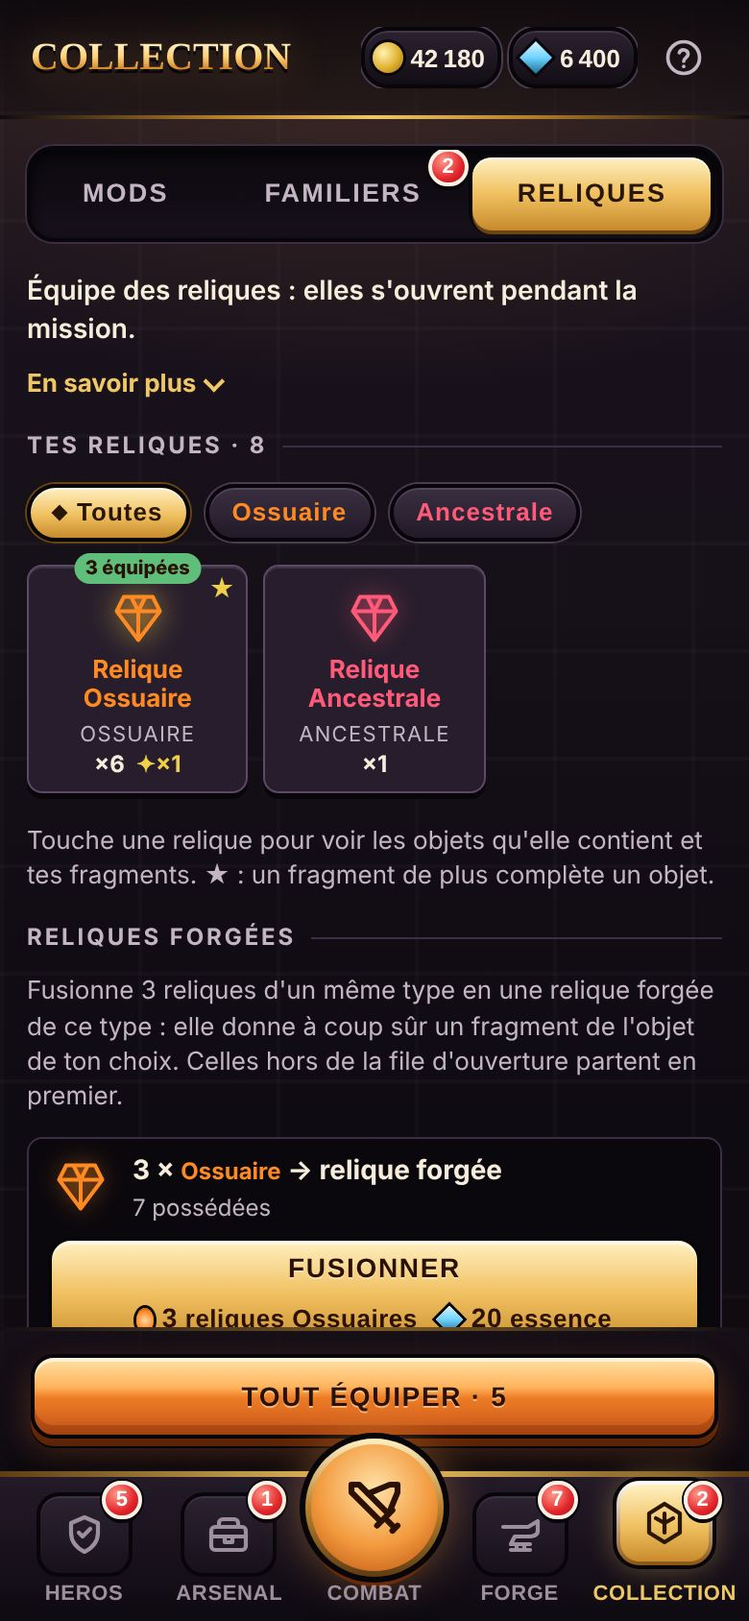
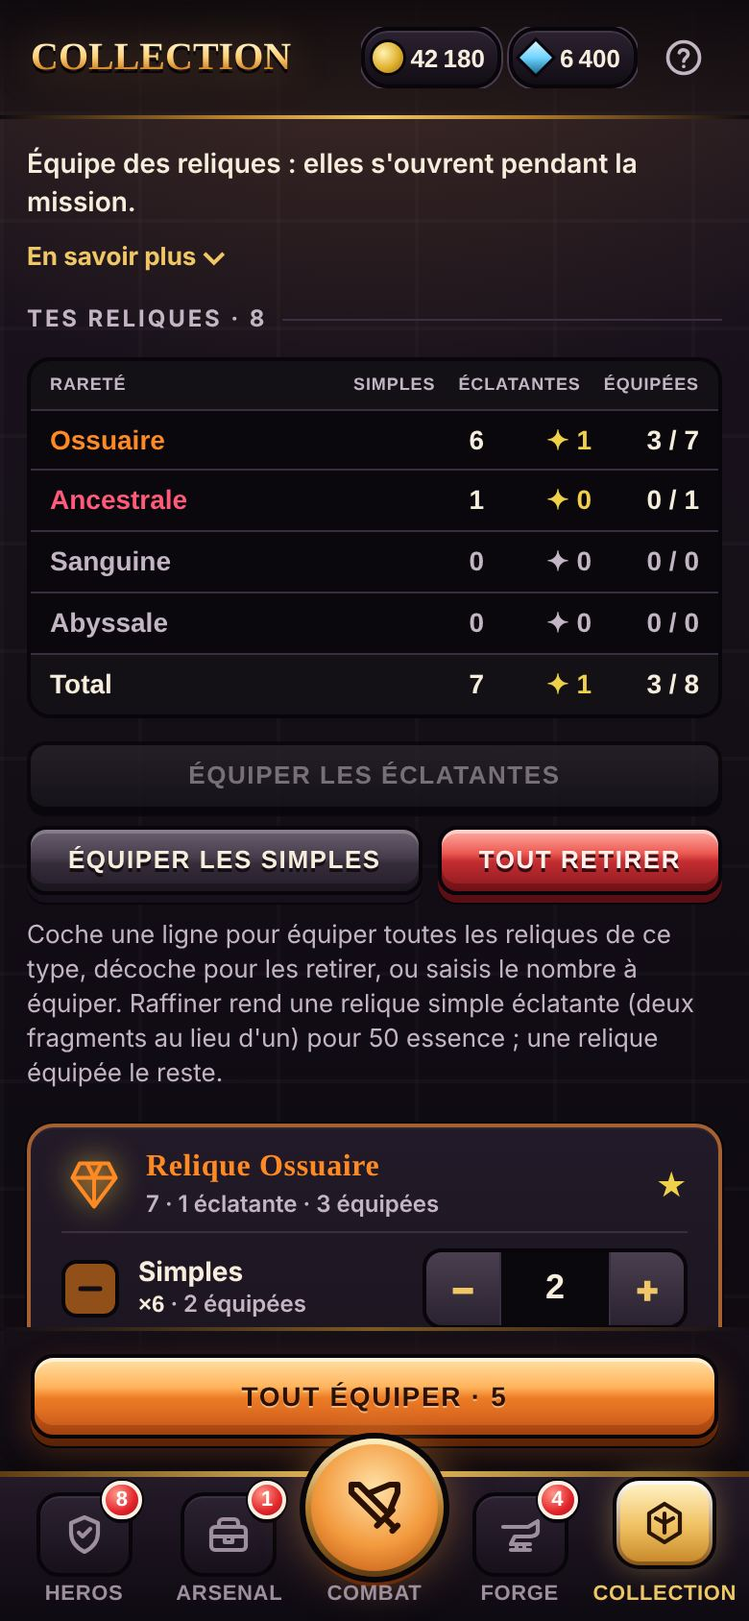
v140: refonte relique interface

diff --git a/js/collection.js b/js/collection.js
@@ -1,5 +1,5 @@
-// Crypte des Cendres — collection.js : Collection › Reliques (file d'ouverture, reliques forgées, raffinage) et ses actions. Découpé de camp.js en v135.
-let relSel=null,relTier='all';
+// Crypte des Cendres — collection.js : Collection › Reliques (tableau par rareté, cartes par type, file d’ouverture, reliques forgées, raffinage en nombre) et ses actions. Découpé de camp.js en v135, gestion refaite en v140.
+let relTier='all'; // filtre gardé pour le bouton du bas (toutes les reliques depuis la v140)
 // Filtre : 'all', un type (0–3) ou 'f' (forgées)
 const relMatch=(id,f=relTier)=>{const R=RELICS[id];return f==='all'||(f==='f'?!!R.fz:String(R.t)===f&&!R.fz)};
 const relToEquip=f=>Object.keys(RELICS).filter(id=>meta.relics[id]&&relMatch(id,f)).reduce((n,id)=>n+[true,false].reduce((m,rad)=>m+Math.max(0,(meta.relics[id][rad?1:0]|0)-relicQN(id,rad)),0),0);
@@ -22,55 +22,96 @@ function fusionSection(){
 // File d'ouverture regroupée par type (relique + état), dans l'ordre de la première de chaque groupe.
 function relGroups(){const G2=[],ix={};for(const q of meta.relicQ){const k=q.id+'|'+(q.rad?1:0);if(ix[k]==null){ix[k]=G2.length;G2.push({id:q.id,rad:!!q.rad,n:0})}G2[ix[k]].n++}return G2}
 const RELIC_SVG='<svg viewBox="0 0 24 24"><path d="M6 3h12l3 6-9 12L3 9z"/><path d="M3 9h18M9 3l3 6 3-6M12 9v12"/></svg>';
+/* v140 : gestion des reliques. Un tableau par rareté (simples, éclatantes, équipées), puis une carte par type : pour les simples et pour les
+   éclatantes, une case à cocher (toutes ou aucune), le nombre à équiper (−, saisie, +) ; le raffinage en nombre ; le contenu et les fragments.
+   Les reliques forgées ont leurs lignes dans la carte de leur rareté. Puis la file d'ouverture et la fusion. */
+const REFINE_COST=50;
+const relRef={}; // nombre à raffiner choisi, par relique
+const relOwn=(id,rad)=>Math.max(0,((meta.relics[id]||[0,0])[rad?1:0])|0);
+const relRefMax=id=>Math.min(relOwn(id,false),Math.floor((meta.essence|0)/REFINE_COST));
+// Règle le nombre de reliques (id, état) dans la file : les nouvelles rejoignent la fin de leur groupe (ou la fin de la file),
+// les retirées partent de la fin de leur groupe.
+function relSetN(id,rad,n){const own=relOwn(id,rad);n=Math.max(0,Math.min(own,Math.round(+n||0)));let c=relicQN(id,rad);const same=q=>q.id===id&&!!q.rad===rad;
+  while(c<n){let at=-1;for(let i=meta.relicQ.length-1;i>=0;i--)if(same(meta.relicQ[i])){at=i;break}meta.relicQ.splice(at<0?meta.relicQ.length:at+1,0,{id,rad});c++}
+  while(c>n){for(let i=meta.relicQ.length-1;i>=0;i--)if(same(meta.relicQ[i])){meta.relicQ.splice(i,1);break}c--}
+  return n}
+// Raffine n reliques simples (REFINE_COST essence chacune) : celles hors de la file d'abord ; une relique équipée raffinée reste à sa place, éclatante.
+function relRefine(id,n){const r=meta.relics[id];if(!r)return 0;n=Math.max(0,Math.min(relRefMax(id),Math.round(+n||0)));let free=relOwn(id,false)-relicQN(id,false);
+  for(let k=0;k<n;k++){if(free>0)free--;else for(let i=meta.relicQ.length-1;i>=0;i--){const q=meta.relicQ[i];if(q.id===id&&!q.rad){q.rad=true;break}}
+    r[0]--;r[1]++;meta.essence-=REFINE_COST}
+  return n}
+// Totaux d'une rareté (forgées comprises).
+function relTierSum(t){let s=0,e=0,q=0;for(const id in RELICS){if(RELICS[id].t!==t)continue;s+=relOwn(id,false);e+=relOwn(id,true);q+=relicQN(id,false)+relicQN(id,true)}return {s,e,q}}
+const RCHK_SVG='<svg viewBox="0 0 24 24" aria-hidden="true"><path class="ok" d="M5 12.5l4.5 4.5L19 7.5"/><path class="mx" d="M6 12h12"/></svg>';
+const relLab=(id,rad)=>`${RELICS[id].fz?'relique forgée '+bpdef(RELICS[id].tgt).n:RELICS[id].n.toLowerCase()} ${rad?'éclatante':'simple'}`;
+// Une ligne : case à cocher (toutes ou aucune), état et nombre possédé, nombre à équiper.
+function relRow(id,rad){const own=relOwn(id,rad);if(!own)return '';const n=relicQN(id,rad),r=rad?1:0,all=n>=own,lab=relLab(id,rad);
+  return `<div class="rrow${rad?' is-rad':''}"><button class="rchk" role="checkbox" aria-checked="${all?'true':n?'mixed':'false'}" data-cact="rqset" data-arg="${id}|${r}|${all?0:own}" aria-label="${all?'Retirer':'Équiper'} toutes les reliques ${esc(lab)}s">${RCHK_SVG}</button>
+    <span class="rrow__k"><span class="rrow__n">${rad?'<i class="rstar" aria-hidden="true">✦</i>Éclatantes':'Simples'}</span><small><b>×${own}</b> · ${n?`${n} équipée${n>1?'s':''}`:'aucune équipée'}</small></span>
+    <span class="cx-stepper rnum"><button type="button" data-cact="rqset" data-arg="${id}|${r}|${n-1}" ${n?'':'disabled'} aria-label="Une ${esc(lab)} de moins">−</button><input type="number" inputmode="numeric" min="0" max="${own}" step="1" value="${n}" data-rnum="${id}|${r}" aria-label="Nombre de reliques ${esc(lab)}s à équiper"><button type="button" data-cact="rqset" data-arg="${id}|${r}|${n+1}" ${n<own?'':'disabled'} aria-label="Une ${esc(lab)} de plus">+</button></span></div>`}
+// Raffinage en nombre : simple → éclatante.
+function relRefRow(id){const s=relOwn(id,false);if(!s)return '';const mx=relRefMax(id);let v=relRef[id]==null?1:relRef[id];v=Math.max(mx?1:0,Math.min(mx,v));relRef[id]=v;
+  return `<div class="rrow rref"><span class="rrow__k">Raffiner${mx<s?`<small>${mx?`${mx} au plus (essence)`:'pas assez d\'essence'}</small>`:''}</span>
+    <span class="rref__c"><span class="cx-stepper rnum"><button type="button" data-cact="rrefn" data-arg="${id}|${v-1}" ${v>1?'':'disabled'} aria-label="Raffiner une de moins">−</button><input type="number" inputmode="numeric" min="${mx?1:0}" max="${mx}" step="1" value="${v}" data-rref="${id}" ${mx?'':'disabled'} aria-label="Nombre de reliques ${esc(relLab(id,false))}s à raffiner"><button type="button" data-cact="rrefn" data-arg="${id}|${v+1}" ${v<mx?'':'disabled'} aria-label="Raffiner une de plus">+</button></span>
+    <button class="cx-btn cx-btn--sm cost-btn" data-cact="refine" data-arg="${id}|${v}" style="margin:0" ${v&&mx?'':'disabled'}><span>Raffiner${v>1?` ${v}`:''}</span>${costHtml([['ess',REFINE_COST*Math.max(1,v)]])}</button></span></div>`}
+// Contenu d'une rareté : les objets et tes fragments.
+function relContent(t){return `<p class="cx-hint" style="margin:0">Une relique ${RTIER[t].n} donne un fragment d'un de ces objets ${RAR[RTIER[t].r].n.toLowerCase()}s (deux si éclatante) ; les fragments manquants d'un objet presque complet sortent un peu plus souvent. Une relique forgée donne à coup sûr un fragment de son objet.</p>
+  <ul class="rrw">${relPool(t).map(bid=>{const b=bpdef(bid),n=fragStatus(bid),own=b.kind==='arme'&&ownedW(bid);
+    const st=n>=3?'<span class="rs ok">✓ prêt à fabriquer</span>':n===2?'<span class="rs comp">★ un fragment de plus</span>':`<span class="rs miss">${n} / 3</span>`;
+    return `<li><div class="rrh"><span class="dot" style="background:${RAR[b.r].c}"></span><span class="rl">${esc(b.n)} · ${b.kind==='arme'?'arme':SLOT[b.slot].toLowerCase()}${own?' · possédée':''}</span>${st}</div></li>`}).join('')}</ul>`}
+function relCard(t){const T=RTIER[t],base=Object.keys(RELICS).find(id=>RELICS[id].t===t&&!RELICS[id].fz),fz=Object.keys(RELICS).filter(id=>RELICS[id].fz&&RELICS[id].t===t&&(relOwn(id,false)||relOwn(id,true)));
+  const S=relTierSum(t);if(!S.s&&!S.e)return '';const comp=relPool(t).some(x=>fragStatus(x)===2);
+  return `<article class="cx-card rcard" id="rc${t}" style="--tc:${T.c}"><div class="rcard__head"><span class="rgem${S.e?' rad':''}">${RELIC_SVG}</span><div class="rcard__t"><h4 style="color:${T.c}">Relique ${T.n}</h4><small>${S.s+S.e} · ${S.e} éclatante${S.e>1?'s':''} · ${S.q} équipée${S.q>1?'s':''}</small></div>${comp?'<span class="rcomp" title="Un fragment de plus complète un objet">★</span>':''}</div>
+    ${relRow(base,false)}${relRow(base,true)}${relRefRow(base)}
+    ${fz.map(id=>{const g=RELICS[id].tgt;return `<div class="rsub"><b>Forgée · ${esc(bpdef(g).n)}</b><small>fragment garanti · ${fragStatus(g)} / 3</small></div>${relRow(id,false)}${relRow(id,true)}${relRefRow(id)}`}).join('')}
+    ${cxMore('relc'+t,'Contenu et fragments',relContent(t),'Afficher')}</article>`}
 function campRelics(){
-  relicQFix();const all=Object.keys(RELICS),own=all.filter(id=>{const a=meta.relics[id];return a&&(a[0]||a[1])}),Q=meta.relicQ;
+  relicQFix();const all=Object.keys(RELICS),own=all.filter(id=>relOwn(id,false)||relOwn(id,true)),Q=meta.relicQ;
   let h=`${campMsg}`;
-  const srcRows=`<div class="cx-rows">${RTIER.map((T,t)=>`<div class="cx-row"><span class="cx-row__k"><b style="color:${T.c}">Relique ${T.n}</b><small>${REL_SRC[t]} · fragments ${RAR[T.r].n.toLowerCase()}s</small></span><span class="cx-hint" style="margin:0">${(meta.relics[Object.keys(RELICS)[t]]||[0,0]).reduce((a,b)=>a+b,0)}</span></div>`).join('')}</div>`;
+  const srcRows=`<div class="cx-rows">${RTIER.map((T,t)=>`<div class="cx-row"><span class="cx-row__k"><b style="color:${T.c}">Relique ${T.n}</b><small>${REL_SRC[t]} · fragments ${RAR[T.r].n.toLowerCase()}s</small></span></div>`).join('')}</div>`;
   if(!own.length)return h+'<p class="empty">Aucune relique pour l\'instant. Les monstres en lâchent parfois, et chaque manche réussie en rapporte une. Le type dépend de la difficulté :</p>'+srcRows;
-  const tot=own.reduce((n,id)=>n+meta.relics[id][0]+meta.relics[id][1],0);
-  const qh=`<section class="cx-section"><h3 class="cx-section__label">Ordre d'ouverture · ${Q.length} / ${tot}</h3>
-    ${Q.length?`<div class="rq"><ol>${relGroups().map((g,i,A)=>{const R=RELICS[g.id],c=RTIER[R.t].c,own=(meta.relics[g.id]||[0,0])[g.rad?1:0]|0,k=g.id+'|'+(g.rad?1:0);
+  const SUM=RTIER.map((T,t)=>({T,t,...relTierSum(t)})),tot=SUM.reduce((n,x)=>n+x.s+x.e,0),te=SUM.reduce((n,x)=>n+x.e,0),ts=tot-te;
+  // Tableau par rareté
+  h+=`<section class="cx-section"><h3 class="cx-section__label">Tes reliques · ${tot}</h3>
+    <div class="rsum" role="table" aria-label="Reliques par rareté"><div class="rsum__r rsum__h" role="row"><span role="columnheader">Rareté</span><span role="columnheader">Simples</span><span role="columnheader">Éclatantes</span><span role="columnheader">Équipées</span></div>
+    ${SUM.map(x=>`<div class="rsum__r${x.s+x.e?'':' is-none'}" role="row" style="--tc:${x.T.c}"><span role="cell"><b>${x.T.n}</b></span><span role="cell">${x.s}</span><span role="cell" class="e">✦ ${x.e}</span><span role="cell">${x.q} / ${x.s+x.e}</span></div>`).join('')}
+    <div class="rsum__r rsum__t" role="row"><span role="cell">Total</span><span role="cell">${ts}</span><span role="cell" class="e">✦ ${te}</span><span role="cell">${Q.length} / ${tot}</span></div></div>
+    <div class="cx-actions rsum__a" style="margin:0"><button class="cx-btn cx-btn--sm" data-cact="rqrad" ${SUM.some(x=>x.e)&&all.some(id=>relicQN(id,true)<relOwn(id,true))?'':'disabled'}>Équiper les éclatantes</button><button class="cx-btn cx-btn--sm" data-cact="rqsimple" ${all.some(id=>relicQN(id,false)<relOwn(id,false))?'':'disabled'}>Équiper les simples</button><button class="cx-btn cx-btn--sm cx-btn--danger" data-cact="rqnone" ${Q.length?'':'disabled'}>Tout retirer</button></div>
+    <p class="cx-hint" style="margin:0">Coche une ligne pour équiper toutes les reliques de ce type, décoche pour les retirer, ou saisis le nombre à équiper. Raffiner rend une relique simple éclatante (deux fragments au lieu d'un) pour ${REFINE_COST} essence ; une relique équipée le reste.</p></section>`;
+  h+=RTIER.map((T,t)=>relCard(t)).join('');
+  // File d'ouverture
+  h+=`<section class="cx-section"><h3 class="cx-section__label">Ordre d'ouverture · ${Q.length} / ${tot}</h3>
+    ${Q.length?`<div class="rq"><ol>${relGroups().map((g,i,A)=>{const R=RELICS[g.id],c=RTIER[R.t].c,ow=relOwn(g.id,g.rad),k=g.id+'|'+(g.rad?1:0);
       return `<li><span class="rqn">${i+1}.</span><span class="rgem${g.rad?' rad':''}" style="--tc:${c}">${RELIC_SVG}</span><b style="color:${c}">${esc(R.fz?'Forgée · '+bpdef(R.tgt).n:R.n)}${g.rad?' · éclatante':''} <span style="color:var(--ink)">×${g.n}</span></b>
-      <button class="btn" data-cact="rgmv" data-arg="${k}|-1" ${i?'':'disabled'} aria-label="Monter">↑</button><button class="btn" data-cact="rgmv" data-arg="${k}|1" ${i<A.length-1?'':'disabled'} aria-label="Descendre">↓</button><button class="btn" data-cact="rqdel" data-arg="${k}" aria-label="Retirer une">−</button><button class="btn" data-cact="rqadd" data-arg="${k}" ${g.n<own?'':'disabled'} aria-label="Équiper une de plus">+</button></li>`}).join('')}</ol></div>`
-      :'<p class="cx-hint" style="margin:0">Aucune relique équipée : la prochaine mission n\'en ouvrira aucune.</p>'}
-    <div class="actions" style="margin:0"><button class="btn" data-cact="rqall" ${Q.length>=tot?'disabled':''}>Tout équiper</button><button class="btn danger" data-cact="rqnone" ${Q.length?'':'disabled'}>Tout retirer</button></div></section>`;
-  const tiers=[...new Set(own.filter(id=>!RELICS[id].fz).map(id=>RELICS[id].t))].sort();
-  const tchip=(k,lab,c)=>`<button class="cx-chip cx-chip--sm" data-cact="rtier" data-arg="${k}" aria-pressed="${relTier===String(k)}"${c&&relTier!==String(k)?` style="color:${c}"`:''}>${lab}</button>`;
-  const list=own.filter(id=>relMatch(id)).sort((x,y)=>RELICS[x].t-RELICS[y].t||(!!RELICS[x].fz-!!RELICS[y].fz));
-  if(relSel&&!own.includes(relSel))relSel=null;
-  h+=`<section class="cx-section"><h3 class="cx-section__label">Tes reliques · ${tot}</h3><div class="cx-chips">${tchip('all','Toutes')}${tiers.map(t=>tchip(t,RTIER[t].n,RTIER[t].c)).join('')}${own.some(id=>RELICS[id].fz)?tchip('f','Forgées','var(--ink)'):''}</div>
-    ${(()=>{const ne=relToEquip(relTier),nq=relInQ(relTier),sh=relTier==='f'?'Forgées':relTier==='all'?'':RTIER[+relTier].n;return relTier!=='all'&&nq?`<div class="actions" style="margin:0"><button class="btn danger" data-cact="rqtypeoff">Retirer · ${sh} (${nq})</button></div>`:(ne?'':`<p class="cx-hint" style="margin:0">${relTier==='all'?'Toutes tes reliques':sh} : déjà équipées.</p>`)})()}
-    <div class="rtiles">${list.map(id=>{const R=RELICS[id],a=meta.relics[id],c=RTIER[R.t].c,nq=relicQN(id,false)+relicQN(id,true),comp=R.fz?fragStatus(R.tgt)===2:relPool(R.t).some(x=>fragStatus(x)===2);
-      return `<button class="rtile${relSel===id?' sel':''}" data-cact="rsel" data-arg="${id}" style="--tc:${c}" aria-pressed="${relSel===id}" aria-label="${esc(relicName(id))}, ${a[0]} intacte${a[0]>1?'s':''}, ${a[1]} éclatante${a[1]>1?'s':''}${nq?`, ${nq} équipée${nq>1?'s':''}`:''}">
-        <span class="rgem${a[1]?' rad':''}">${RELIC_SVG}</span><b>${esc(R.fz?bpdef(R.tgt).n:R.n)}</b><span class="rt">${R.fz?'Forgée · ':''}${RTIER[R.t].n}</span>
-        <span class="rc">${a[0]?`×${a[0]}`:''}${a[1]?`<i>✦×${a[1]}</i>`:''}</span>${nq?`<span class="req">${nq} équipée${nq>1?'s':''}</span>`:''}${comp?'<span class="rcomp" title="Peut compléter un objet">★</span>':''}</button>`}).join('')}</div></section>`;
-  if(relSel){const id=relSel,R=RELICS[id],a=meta.relics[id],c=RTIER[R.t].c,pool=R.fz?[R.tgt]:relPool(R.t);
-    const ctl=(rad,lab)=>{const n=relicQN(id,rad),ow=a[rad?1:0];return `<div class="rctl"><span>${lab} · <b>${n} / ${ow}</b> équipée${n>1?'s':''}</span><span class="cx-stepper"><button type="button" data-cact="rqdel" data-arg="${id}|${rad?1:0}" ${n?'':'disabled'} aria-label="Retirer une ${lab.toLowerCase()}">−</button><button type="button" data-cact="rqadd" data-arg="${id}|${rad?1:0}" ${n<ow?'':'disabled'} aria-label="Équiper une ${lab.toLowerCase()}">+</button></span></div>`};
-    h+=`<section class="cx-card rdet" style="--tc:${c}"><div class="cx-card__head"><span class="rgem big${a[1]?' rad':''}">${RELIC_SVG}</span><div><h4 class="cx-card__title" style="color:${c}">${esc(R.n)}</h4><div class="cx-card__meta">${R.fz?'Relique forgée':'Relique'} ${RTIER[R.t].n} · ${REL_SRC[R.t]} · intacte ×${a[0]} · éclatante ×${a[1]}</div></div></div>
-      <p class="cx-hint" style="margin:0">${R.fz?'S\'ouvre en mission et donne à coup sûr un fragment de cet objet (deux si éclatante).':`S'ouvre en mission et donne un fragment d'un de ces ${pool.length} objets ${RAR[RTIER[R.t].r].n.toLowerCase()}s (deux si éclatante). Les fragments manquants d'un objet presque complet sortent un peu plus souvent.`}</p>
-      <ul class="rrw">${pool.map(bid=>{const b=bpdef(bid),n=fragStatus(bid),own=b.kind==='arme'&&ownedW(bid);
-        const st=n>=3?'<span class="rs ok">✓ prêt à fabriquer</span>':n===2?'<span class="rs comp">★ un fragment de plus</span>':`<span class="rs miss">${n} / 3</span>`;
-        return `<li><div class="rrh"><span class="dot" style="background:${RAR[b.r].c}"></span><span class="rl">${esc(b.n)} · ${b.kind==='arme'?'arme':SLOT[b.slot].toLowerCase()}${own?' · possédée':''}</span>${st}</div></li>`}).join('')}</ul>
-      <div class="cx-card__foot">${a[0]?ctl(false,'Intactes'):''}${a[1]?ctl(true,'Éclatantes'):''}
-        ${a[0]?`<button class="btn buy cost-btn" data-cact="refine" data-arg="${id}" ${meta.essence<50||relicQN(id,false)>=a[0]?'disabled':''}><span>Raffiner en éclatante</span>${costHtml([['ess',50]])}</button>`:''}</div></section>`}
-  else h+='<p class="cx-hint" style="margin:0">Touche une relique pour voir les objets qu\'elle contient et tes fragments. ★ : un fragment de plus complète un objet.</p>';
-  return h+fusionSection()+qh+cxMore('relsrc','Où tombent les reliques',srcRows,'Afficher');
+      <button class="btn" data-cact="rgmv" data-arg="${k}|-1" ${i?'':'disabled'} aria-label="Monter">↑</button><button class="btn" data-cact="rgmv" data-arg="${k}|1" ${i<A.length-1?'':'disabled'} aria-label="Descendre">↓</button><button class="btn" data-cact="rqdel" data-arg="${k}" aria-label="Retirer une">−</button><button class="btn" data-cact="rqadd" data-arg="${k}" ${g.n<ow?'':'disabled'} aria-label="Équiper une de plus">+</button></li>`}).join('')}</ol></div>
+      <p class="cx-hint" style="margin:0">En mission, les reliques s'ouvrent dans cet ordre ; ↑ ↓ déplacent tout un groupe.</p>`
+      :'<p class="cx-hint" style="margin:0">Aucune relique équipée : la prochaine mission n\'en ouvrira aucune.</p>'}</section>`;
+  return h+fusionSection()+cxMore('relsrc','Où tombent les reliques',srcRows,'Afficher');
 }
+// Saisie d'un nombre (équiper, raffiner) : appliqué à la validation (Entrée ou sortie du champ).
+$('campSheet').addEventListener('change',e=>{const x=e.target;if(!x||!x.matches||campTab!=='relics')return;
+  if(x.matches('input[data-rnum]')){const [id,rd]=x.dataset.rnum.split('|');relSetN(id,rd==='1',x.value);relicQFix();saveMeta();drawCamp()}
+  else if(x.matches('input[data-rref]')){relRef[x.dataset.rref]=Math.max(0,Math.round(+x.value||0));drawCamp()}});
+$('campSheet').addEventListener('keydown',e=>{const x=e.target;if(e.key==='Enter'&&x&&x.matches&&x.matches('input[data-rnum],input[data-rref]')){e.preventDefault();x.blur()}});
 
 Object.assign(CAMP_ACT,{
   rftgt:function(a,arg,b,d){{const [t,id]=arg.split('|');fuseTgt[+t]=id}return CAMP_GO},
   rfuse:function(a,arg,b,d){{const t=+arg,av=relAvail(t),cost=FUSE_COST[t],tg=fuseTgt[t];if(av.length>=3&&meta.essence>=cost&&tg&&RELICS['F_'+tg]){meta.essence-=cost;
         for(const q of av.slice(0,3))meta.relics[q.id][q.rad?1:0]--;relicQFix();SND.play('relic');
-        const fid='F_'+tg,ra=meta.relics[fid]||(meta.relics[fid]=[0,0]);ra[0]++;relSel=fid;
+        const fid='F_'+tg,ra=meta.relics[fid]||(meta.relics[fid]=[0,0]);ra[0]++;
         campMsg=`<div class="card" style="border-color:${RTIER[t].c}"><div class="meta">Fusion réussie</div><p style="margin:0;font-size:15px">Tu obtiens la <b style="color:${RTIER[t].c}">${esc(RELICS[fid].n)}</b>. Équipe-la et ouvre-la en mission : elle donne à coup sûr un fragment de cet objet (${fragStatus(tg)} / 3 aujourd'hui).</p></div>`}}return CAMP_GO},
-  rsel:function(a,arg,b,d){{relSel=relSel===arg?null:arg}return CAMP_GO},
-  rtier:function(a,arg,b,d){{relTier=arg;relSel=null}return CAMP_GO},
-  rqadd:function(a,arg,b,d){{const [id,rd]=arg.split('|'),rad=rd==='1',ow=(meta.relics[id]||[0,0])[rad?1:0];if(relicQN(id,rad)<ow)meta.relicQ.push({id,rad})}return CAMP_GO},
-  rqdel:function(a,arg,b,d){{const [id,rd]=arg.split('|'),rad=rd==='1';for(let i=meta.relicQ.length-1;i>=0;i--)if(meta.relicQ[i].id===id&&!!meta.relicQ[i].rad===rad){meta.relicQ.splice(i,1);break}}return CAMP_GO},
+  // v140 : nombre à équiper d'une relique dans un état (case à cocher, −, +)
+  rqset:function(a,arg,b,d){{const [id,rd,n]=arg.split('|');if(RELICS[id])relSetN(id,rd==='1',+n)}return CAMP_GO},
+  rqadd:function(a,arg,b,d){{const [id,rd]=arg.split('|'),rad=rd==='1';relSetN(id,rad,relicQN(id,rad)+1)}return CAMP_GO},
+  rqdel:function(a,arg,b,d){{const [id,rd]=arg.split('|'),rad=rd==='1';relSetN(id,rad,relicQN(id,rad)-1)}return CAMP_GO},
   rgmv:function(a,arg,b,d){{const [id,rd,d]=arg.split('|'),Gs=relGroups(),i=Gs.findIndex(g=>g.id===id&&(g.rad?'1':'0')===rd),j=i+(+d);if(i>=0&&j>=0&&j<Gs.length){[Gs[i],Gs[j]]=[Gs[j],Gs[i]];meta.relicQ=Gs.flatMap(g=>Array.from({length:g.n},()=>({id:g.id,rad:g.rad})))}}return CAMP_GO},
   rqnone:function(a,arg,b,d){{meta.relicQ=[]}return CAMP_GO},
-  rqtype:function(a,arg,b,d){{const ids=Object.keys(RELICS).filter(id=>meta.relics[id]&&relMatch(id)).sort((x,y)=>RELICS[x].t-RELICS[y].t);for(const id of ids){const r=meta.relics[id];for(const rad of [true,false])while(relicQN(id,rad)<(r[rad?1:0]|0))meta.relicQ.push({id,rad})}}return CAMP_GO},
+  rqrad:function(a,arg,b,d){{for(const id in RELICS)relSetN(id,true,relOwn(id,true))}return CAMP_GO},
+  rqsimple:function(a,arg,b,d){{for(const id in RELICS)relSetN(id,false,relOwn(id,false))}return CAMP_GO},
+  rqtype:function(a,arg,b,d){{const ids=Object.keys(RELICS).filter(id=>meta.relics[id]&&relMatch(id)).sort((x,y)=>RELICS[x].t-RELICS[y].t);for(const id of ids)for(const rad of [true,false])relSetN(id,rad,relOwn(id,rad))}return CAMP_GO},
   rqtypeoff:function(a,arg,b,d){{meta.relicQ=meta.relicQ.filter(q=>!RELICS[q.id]||!relMatch(q.id))}return CAMP_GO},
-  rqall:function(a,arg,b,d){{for(const id in RELICS){const r=meta.relics[id];if(!r)continue;for(const rad of [true,false])while(relicQN(id,rad)<r[rad?1:0])meta.relicQ.push({id,rad})}}return CAMP_GO},
-  refine:function(a,arg,b,d){{const r=meta.relics[arg];if(r&&r[0]>relicQN(arg,false)&&meta.essence>=50){r[0]--;r[1]++;meta.essence-=50}}return CAMP_GO},
+  rqall:function(a,arg,b,d){{for(const id in RELICS)for(const rad of [true,false])relSetN(id,rad,relOwn(id,rad))}return CAMP_GO},
+  rrefn:function(a,arg,b,d){{const [id,n]=arg.split('|');relRef[id]=Math.max(0,+n||0)}return CAMP_GO},
+  // Raffinage en nombre (v140) : « id|n » ; « id » seul = une relique
+  refine:function(a,arg,b,d){{const [id,n]=arg.split('|'),k=relRefine(id,n==null?1:+n);if(k){SND.play('relic');toast(`${k} relique${k>1?'s':''} ${RELICS[id].fz?'forgée'+(k>1?'s':''):RTIER[RELICS[id].t].n} raffinée${k>1?'s':''} : éclatante${k>1?'s':''}`)}}return CAMP_GO},
 });

diff --git a/js/camp.js b/js/camp.js
@@ -36,7 +36,7 @@ const CAMP_MORE={
   ars_coffre:['Touche un objet pour voir sa fiche et l\'équiper.','<p>Le coffre montre aussi ce que portent tes héros : la pastille A, G ou M indique l\'Archer, le Guerrier ou le Magicien, et le filtre « Portés » n\'affiche qu\'eux. ▲ signale un objet meilleur que celui que tu portes, le cadenas un objet verrouillé (ni recyclé, ni sacrifié par une fusion, ni utilisé comme source d\'affixe). « Équiper le meilleur », en bas, choisit pour chaque emplacement l\'objet qui donne le plus de Puissance (à Puissance égale, le plus de survie), et la meilleure arme de ton héros.</p>'],
   equip:['Ton héros, son équipement et ses réglages. Touche un emplacement ou une tuile.','<p>Chaque héros a son équipement ; un objet n\'est porté que par un héros à la fois. Toucher un emplacement, ou la tuile Équipement, ouvre l\'équipement emplacement par emplacement : l\'objet porté, tous tes objets possibles classés par Puissance, les équipements enregistrés et les emplacements à débloquer. « Équiper le meilleur », en bas, choisit pour chaque emplacement l\'objet du coffre qui donne le plus de Puissance (à Puissance égale, le plus de survie), et la meilleure arme du héros.</p><p>Les autres tuiles ouvrent les réglages propres à ce héros : Sorts et talents, Prestige, Mods (héros et arme), Familier, Apparence. Le prestige s\'ouvre quand toutes les améliorations de la Forge sont au maximum.</p>'],
   arsenal:['Fabrique les objets légendaires et plus rares avec leurs 3 fragments.','<p>Les fragments viennent des reliques, ouvertes en mission : Ossuaire (légendaires), Ancestrale (ancestraux), Sanguine (sanguins), Abyssale (abyssaux). Un objet sort au niveau d\'objet de ta plus haute mission réussie. Fabriquer une arme que tu as déjà donne un double, à fusionner à la Forge.</p><p>Tes armes, leur rang, leur maîtrise et leur Puissance comparée à celle que tu portes sont dans Héros › Équipement › Arme.</p>'],
-  relics:['Équipe des reliques : elles s\'ouvrent pendant la mission.',`<p>En mission, ${REACT_N} réactifs (ennemis au halo doré) ouvrent la première relique de la liste, puis la suivante. En Tourment il en faut moins : ${Math.round((BAL.tormReact||0)*100)} % de moins par palier, et encore moins à mesure que tu restes dans la mission, où les reliques tombent aussi plus souvent. Chaque relique ouverte donne un fragment d\'un objet de sa rareté et +25 essence, à la réussite de la mission.</p><p>Le type de relique dépend de la difficulté et du niveau de mission : Ossuaire en Normal, Difficile et Cauchemar ; Ancestrale en Tourment I et plus, dès le niveau ${BAL.relicLv[0]} ; Sanguine et Abyssale en Tourment VI et plus, dès les niveaux ${BAL.relicLv[1]} et ${BAL.relicLv[2]}. Sous le niveau requis, c'est la relique du dessous. Trois reliques d\'un même type donnent une relique forgée qui vise l\'objet de ton choix. Le raffinage (50 essence) rend une relique éclatante : elle donne deux fragments.</p>`],
+  relics:['Équipe des reliques : elles s\'ouvrent pendant la mission.',`<p>En mission, ${REACT_N} réactifs (ennemis au halo doré) ouvrent la première relique de la liste, puis la suivante. En Tourment il en faut moins : ${Math.round((BAL.tormReact||0)*100)} % de moins par palier, et encore moins à mesure que tu restes dans la mission, où les reliques tombent aussi plus souvent. Chaque relique ouverte donne un fragment d\'un objet de sa rareté et +25 essence, à la réussite de la mission.</p><p>Le type de relique dépend de la difficulté et du niveau de mission : Ossuaire en Normal, Difficile et Cauchemar ; Ancestrale en Tourment I et plus, dès le niveau ${BAL.relicLv[0]} ; Sanguine et Abyssale en Tourment VI et plus, dès les niveaux ${BAL.relicLv[1]} et ${BAL.relicLv[2]}. Sous le niveau requis, c'est la relique du dessous. Trois reliques d\'un même type donnent une relique forgée qui vise l\'objet de ton choix. Le raffinage (50 essence) rend une relique éclatante : elle donne deux fragments.</p><p>Le tableau du haut compte tes reliques par rareté : simples, éclatantes, équipées. Dans la carte de chaque rareté, coche une ligne pour équiper toutes les reliques de ce type, décoche pour les retirer, ou saisis le nombre voulu (− et + pour une de plus ou de moins). Le raffinage se fait en nombre ; une relique équipée raffinée reste équipée. Les reliques forgées ont leurs lignes dans la carte de leur rareté.</p>`],
   mods:['Place tes mods dans les cases du héros et de l\'arme.','<p>Chaque mod coûte de la capacité ; la maîtrise, gagnée en mission, en ajoute. Une case alignée sur une polarité divise par deux le coût des mods de cette polarité. Un mod au rang maximum se surcharge avec ses copies (jusqu\'à 5 étoiles).</p>'],
   pets:['Ton familier suit tous tes héros en mission ; chaque familier a son propre build de mods.',`<p>Les œufs tombent parfois en ouvrant une relique (${EGG_CH.map((c,t)=>`${RTIER[t].n} ${fmtN(c*BAL.eggMul*100)} %`).join(', ')}). Deux familiers identiques de même rang fusionnent en un seul du rang au-dessus (★★★★★ au maximum). Un familier équipé gagne des niveaux (jusqu\'à 20) avec les ennemis abattus.</p><p>Le familier équipé suit tous tes héros, mais chaque familier a son propre build de mods (cases, mods, alignements) : changer de familier change de build. Après une fusion, le familier gardé prend le build de celui qui était équipé.</p>`],
   forge_up:['L\'or du Camp achète des améliorations permanentes pour tous tes héros.','<p>Chaque rang s\'applique à tous tes héros. Les talents, propres à chaque héros, sont dans l\'onglet Héros › Sorts et talents. Quand toutes les améliorations sont au maximum, le <b>Prestige</b> s\'ouvre (onglet Héros › Prestige).</p><p>La sauvegarde (exporter, importer) se trouve dans <b>Réglages</b> : touche ton portrait sur l\'accueil.</p>'],

diff --git a/aide/index.html b/aide/index.html
@@ -547,13 +547,13 @@ details.more .tbl{margin:0 14px 14px}
     <p>Gardiens (une chacun), élites (10 %), monstres (très rarement) et récompense de fin de manche. Le type dépend de la <b>difficulté</b> et du <b>niveau de mission</b> : en Tourment, il faut le niveau 30 pour les Ancestrales, 40 pour les Sanguines et 45 pour les Abyssales ; en dessous, c'est la relique du palier inférieur.</p>
     <h3>Ouvrir une relique : la Fissure</h3>
     <ol>
-      <li>Dans Collection › Reliques (le bouton Reliques de l'accueil y mène), équipe une ou plusieurs reliques, dans l'ordre d'ouverture voulu. La file les regroupe par type et par état (« Relique Ossuaire ×8 », « éclatante ×2 ») : ↑ ↓ déplacent tout le groupe, − et + retirent ou ajoutent une relique. Pour aller vite, choisis un type au-dessus de ta collection puis touche <b>Tout équiper</b>. <b>Retirer</b> les enlève de la file.</li>
+      <li>Dans Collection › Reliques (le bouton Reliques de l'accueil y mène), équipe les reliques à ouvrir. En haut, un <b>tableau par rareté</b> compte tes reliques simples, tes éclatantes et celles équipées ; dessous, <b>Équiper les éclatantes</b>, <b>Équiper les simples</b> et <b>Tout retirer</b>. Chaque rareté a sa carte, avec une ligne pour les simples et une pour les éclatantes (et pour chaque relique forgée) : <b>coche</b> la ligne pour équiper toutes les reliques de ce type, décoche-la pour les retirer (à moitié cochée : une partie est équipée), ou <b>saisis le nombre</b> à équiper ; − et + en retirent ou en ajoutent une. <b>Contenu et fragments</b> montre les objets de la rareté et tes fragments. Plus bas, l'<b>ordre d'ouverture</b> regroupe la file par type et par état (« Relique Ossuaire ×8 », « éclatante ×2 ») : ↑ ↓ déplacent tout le groupe. Le bouton du bas, <b>Tout équiper</b>, met toutes tes reliques dans la file.</li>
       <li>En mission, une partie des ennemis sont <b>corrompus</b> (halo doré) et lâchent un réactif.</li>
       <li><b>30 réactifs</b> ouvrent la relique en cours, puis on passe à la suivante. En <b>Tourment</b>, il en faut moins : 4 % de moins par palier (18 au palier X), puis encore 5 % de moins toutes les 2 minutes passées dans la mission, jusqu'à −30 % ; il en faut toujours au moins 9. Ce séjour fait aussi tomber plus de reliques sur les monstres et les élites : +10 % toutes les 2 minutes, jusqu'à +60 %. Un message annonce chaque hausse, et l'écran de fin de manche rappelle le bonus avant de choisir de continuer.</li>
       <li>Réussis la mission : chaque relique ouverte donne <b>un fragment d'un objet de sa rareté</b> et 25 essence, et parfois un <a href="#familiers">œuf de familier</a> (Ossuaire 3,2 %, Ancestrale 4,8 %, Sanguine 6 %, Abyssale 10 %). Le fragment donné est toujours un de ceux qui manquent à l'objet, s'il en reste ; un objet dont tu as déjà des fragments sort plus souvent (× 1,5 avec un fragment, × 2 avec deux). En cas d'échec, rien n'est consommé.</li>
     </ol>
-    <h3>Intacte ou éclatante</h3>
-    <p>Le <b>raffinage</b> (50 essence) rend une relique éclatante : elle donne <b>deux fragments</b> au lieu d'un.</p>
+    <h3>Simple ou éclatante</h3>
+    <p>Le <b>raffinage</b> (50 essence par relique) rend une relique simple éclatante : elle donne <b>deux fragments</b> au lieu d'un. Dans la carte de sa rareté, choisis combien en raffiner, puis <b>Raffiner</b> : les reliques hors de la file partent d'abord, et une relique équipée raffinée reste équipée, à sa place dans l'ordre d'ouverture. Si ton essence ne suffit pas pour toutes, la carte dit combien tu peux en raffiner.</p>
     <h3>Reliques forgées</h3>
     <p>3 reliques d'un même type donnent une <b>relique forgée</b> de ce type, pour l'objet de ton choix parmi ceux qu'elle contient (20, 40, 80 puis 150 essence). Elle s'ouvre en mission comme les autres et donne à coup sûr un fragment de cet objet. Les reliques hors de la file d'ouverture partent en premier.</p>
     <h3>Pouvoirs abyssaux</h3>
@@ -572,8 +572,8 @@ details.more .tbl{margin:0 14px 14px}
     <p>Dans la fiche d'une relique, chaque objet qu'elle contient affiche tes fragments (« 1 / 3 », « ★ un fragment de plus », « prêt à fabriquer »).</p>
   </div>
   <div class="shots">
-    <figure><button class="shot" type="button"><img src="img/camp_relics.jpg" alt="Collection › Reliques : collection et file d'ouverture" width="780" height="1688" loading="lazy"></button><figcaption>La collection et la file d'ouverture.</figcaption></figure>
-    <figure><button class="shot" type="button"><img src="img/relic_detail.jpg" alt="Fiche d'une relique avec les objets qu'elle contient" width="780" height="1688" loading="lazy"></button><figcaption>Fiche d'une relique Abysse.</figcaption></figure>
+    <figure><button class="shot" type="button"><img src="img/camp_relics.jpg" alt="Collection › Reliques : tableau par rareté et carte Ossuaire" width="780" height="1688" loading="lazy"></button><figcaption>Le tableau par rareté et les actions de toute la collection.</figcaption></figure>
+    <figure><button class="shot" type="button"><img src="img/relic_detail.jpg" alt="Carte d'une rareté : lignes à cocher, nombre à équiper, raffinage, contenu" width="780" height="1688" loading="lazy"></button><figcaption>La carte Ossuaire, contenu ouvert.</figcaption></figure>
   </div>
 </div></section>
 
@@ -809,7 +809,7 @@ details.more .tbl{margin:0 14px 14px}
 
 </main>
 
-<footer class="wrap">Crypte des Cendres · guide à jour de la version 139 du jeu. <a href="../index.html">Retour au jeu</a></footer>
+<footer class="wrap">Crypte des Cendres · guide à jour de la version 140 du jeu. <a href="../index.html">Retour au jeu</a></footer>
 
 <dialog id="zoom" aria-label="Capture agrandie"><button type="button" id="zoomX" aria-label="Fermer">×</button><img id="zoomImg" alt=""></dialog>
 

diff --git a/css/game.css b/css/game.css
@@ -1515,3 +1515,50 @@ body:has(#over:not([hidden])) .tabbar,body:has(#settings:not([hidden])) .tabbar{
 .savereset .card{border-color:#7a2a30;background:linear-gradient(180deg,#2a1418,#160c10)}
 /* Grilles longues (v135) */
 .gridmore{margin:10px 0 0}
+/* ---------- Collection › Reliques (v140) : tableau par rareté, carte par type, lignes à cocher et nombre à équiper ---------- */
+.rsum{display:flex;flex-direction:column;border:2px solid var(--outline);border-radius:12px;overflow:hidden;background:var(--sunk)}
+.rsum__r{display:grid;grid-template-columns:minmax(0,1fr) repeat(3,minmax(44px,max-content));align-items:center;gap:6px 12px;padding:7px 10px;border-top:1px solid var(--line);font:700 14px/1.2 var(--font-num);font-variant-numeric:tabular-nums;color:var(--ink)}
+.rsum__r>span{text-align:right;white-space:nowrap}
+.rsum__r>span:first-child{display:flex;align-items:center;gap:6px;text-align:left;min-width:0}
+.rsum__r>span:first-child b{color:var(--tc);overflow:hidden;text-overflow:ellipsis}
+.rsum__r .e{color:var(--gold)}
+.rsum__h{border-top:0;background:rgba(255,255,255,.04);font:800 9px/1.2 var(--font-num);letter-spacing:.05em;text-transform:uppercase;color:var(--muted)}
+.rsum__t{background:rgba(255,255,255,.04)}
+.rsum__r.is-none{color:var(--muted)}
+.rsum__r.is-none b,.rsum__r.is-none .e{color:var(--muted)!important}
+.rsum__a{flex-wrap:wrap;gap:8px}
+.rsum__a .cx-btn{flex:1 1 auto;margin:0}
+.rcard{border-color:color-mix(in srgb,var(--tc) 55%,var(--line));gap:6px}
+.rcard__head{display:flex;align-items:center;gap:10px}
+.rcard__t{flex:1;min-width:0}
+.rcard__t h4{margin:0;font:800 16px/1.15 var(--font-display);letter-spacing:.02em}
+.rcard__t small{display:block;margin-top:2px;font:600 12px/1.3 var(--font-body);color:var(--muted)}
+.rcard .rcomp{color:var(--gold);font-size:16px}
+.rrow{display:flex;align-items:center;gap:8px 10px;padding:8px 0 0;border-top:1px solid var(--line)}
+.rrow__k{flex:1 1 0;min-width:0;display:flex;flex-wrap:wrap;align-items:baseline;gap:0 6px;font:700 14px/1.25 var(--font-body);color:var(--ink)}
+.rrow__n{white-space:nowrap}
+.rrow__k small b{font:800 12px/1 var(--font-num);color:var(--ink)}
+.rrow__k small{flex-basis:100%;font:600 12px/1.3 var(--font-body);color:var(--muted)}
+.rrow.is-rad .rrow__k{color:var(--gold)}
+.rstar{font-style:normal;margin-right:4px;color:var(--gold)}
+.rchk{flex:none;display:grid;place-items:center;width:30px;height:30px;margin:0;padding:0;border:2px solid var(--outline);border-radius:8px;background:#0b080d;box-shadow:inset 0 0 0 1px #4a3d52;cursor:pointer;color:#120d15}
+.rchk svg{width:20px;height:20px;fill:none;stroke:currentColor;stroke-width:3;stroke-linecap:round;stroke-linejoin:round}
+.rchk svg path{display:none}
+.rchk[aria-checked="true"]{background:var(--tc);box-shadow:none}
+.rchk[aria-checked="true"] .ok{display:block}
+.rchk[aria-checked="mixed"]{background:color-mix(in srgb,var(--tc) 55%,#0b080d);box-shadow:none}
+.rchk[aria-checked="mixed"] .mx{display:block}
+.rchk:focus-visible{outline:2px solid var(--ember-hi);outline-offset:2px}
+.rnum button{width:38px;min-height:38px}
+.rnum input{width:52px;font-size:18px}
+.rref .rnum button{width:34px}
+.rref .rnum input{width:44px}
+@media (max-width:360px){.rnum button{width:34px;min-height:36px}.rnum input{width:42px;font-size:16px}.rrow{gap:8px}}
+.rnum input:disabled{color:var(--muted)}
+.rref{flex-wrap:wrap}
+.rref .rrow__k{flex:1 1 64px;min-width:64px}
+.rref__c{display:flex;align-items:center;gap:8px;margin-left:auto}
+.rref__c .cx-btn{min-height:38px;padding-top:4px;padding-bottom:4px}
+.rsub{display:flex;flex-wrap:wrap;align-items:baseline;gap:2px 8px;padding-top:8px;border-top:1px dashed var(--line)}
+.rsub b{font:700 13px/1.25 var(--font-body);color:var(--tc)}
+.rsub small{font:600 12px/1.3 var(--font-body);color:var(--muted)}

diff --git a/sw.js b/sw.js
@@ -1,5 +1,5 @@
 // Crypte des Cendres — cache hors ligne. Change VERSION à chaque mise à jour du jeu.
-const VERSION = 'crypte-v139';
+const VERSION = 'crypte-v140';
 const CORE = ['./', './index.html', './manifest.webmanifest', './css/game.css', './js/rythmes/rapide.js', './js/data.js', './js/game.js', './js/render.js', './js/ui.js', './js/camp.js', './js/heros.js', './js/arsenal.js', './js/forge.js', './js/collection.js', './js/save.js', './js/inv.js', './js/fuse.js', './js/seal.js', './js/pet.js', './js/tut.js', './js/unlock.js', './js/settings.js', './js/audio.js', './js/relais.js', './js/net.js', './js/shell.js', './js/main.js', './js/update.js', './js/nav.js', './icons/icon-192.png', './icons/icon-512.png', './icons/maskable-512.png', './icons/apple-touch-icon.png'];
 const EXTERNAL = ['https://cdn.jsdelivr.net/npm/pixi.js@7.4.2/dist/pixi.min.js'];
 

diff --git a/README.md b/README.md
@@ -62,7 +62,7 @@ Le rythme chargé est celui de la balise `<script src="js/rythmes/….js">` d'`i
 Une suite unique vérifie le jeu dans un vrai navigateur (Chromium sans affichage) : démarrage, butin, reliques, fabrication et fusion, coffre, affixes, emplacements, missions, contrôles, sauvegarde, parcours, coopération.
 ```
 npm i playwright && npx playwright install chromium
-node tools/tests/run.mjs            # tout (135 tests, ≈ 4 min 30)
+node tools/tests/run.mjs            # tout (136 tests, ≈ 4 min 30)
 node tools/tests/run.mjs --quick    # sans la coopération
 node tools/tests/run.mjs fusion     # seulement les suites dont le fichier contient « fusion »
 ```
